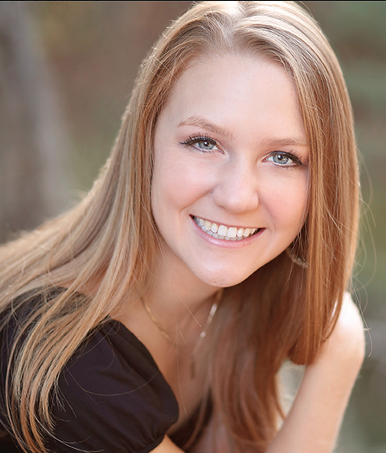
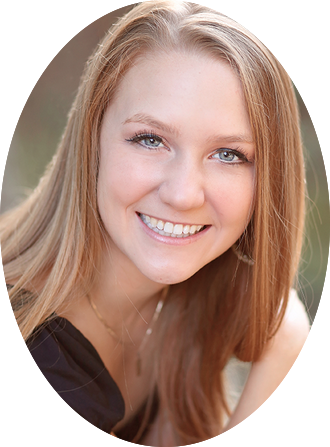
portfolio images test,
fixed Ontime,

changed profile pic, put up NeedOne pic,

text updates,

 links should work now,

diff --git a/_includes/about.html b/_includes/about.html
@@ -9,10 +9,10 @@
             </div>
             <div class="row">
                 <div class="col-lg-4 col-lg-offset-2">
-                    <p>I am a sophomore at Dartmouth College majoring in Computer Science and minoring in sociology. </p>
+                    <p>I'm a junior at Dartmouth College majoring in Computer Science and minoring in sociology. I'm a member and choreographer for SHEBA, a hip hop dance troupe, and I work as a web developer in the <a href="http://dali.dartmouth.edu/">Neukom DALI Lab</a> and a TA for CS1.</p>
                 </div>
                 <div class="col-lg-4">
-                    <p>Keep reading to learn more about my projects, interests, and plans! </p>
+                    <p>I spent this past summer on campus enrolled in courses with the rest of my class, as part of the Dartmouth academic plan. I'll be spending the fall term in Budapest taking CS classes at the <a href="http://www.ait-budapest.com/">Acquincum Institute of Technology</a> (and hopefully visiting as many cafes as humanly possible!!).</p>
                 </div>
             </div>
         </div>

diff --git a/_includes/header.html b/_includes/header.html
@@ -7,7 +7,7 @@
                     <div class="intro-text">
                         <span class="name">{{ site.title }}</span>
                         <hr class="star-light">
-                        <span class="skills">Computer Science Major - Competitive Dancer - Social Media Enthusiast</span>
+                        <span class="skills">Computer Science Major - Competitive Dancer - Coffee Enthusiast</span>
                     </div>
                 </div>
             </div>
